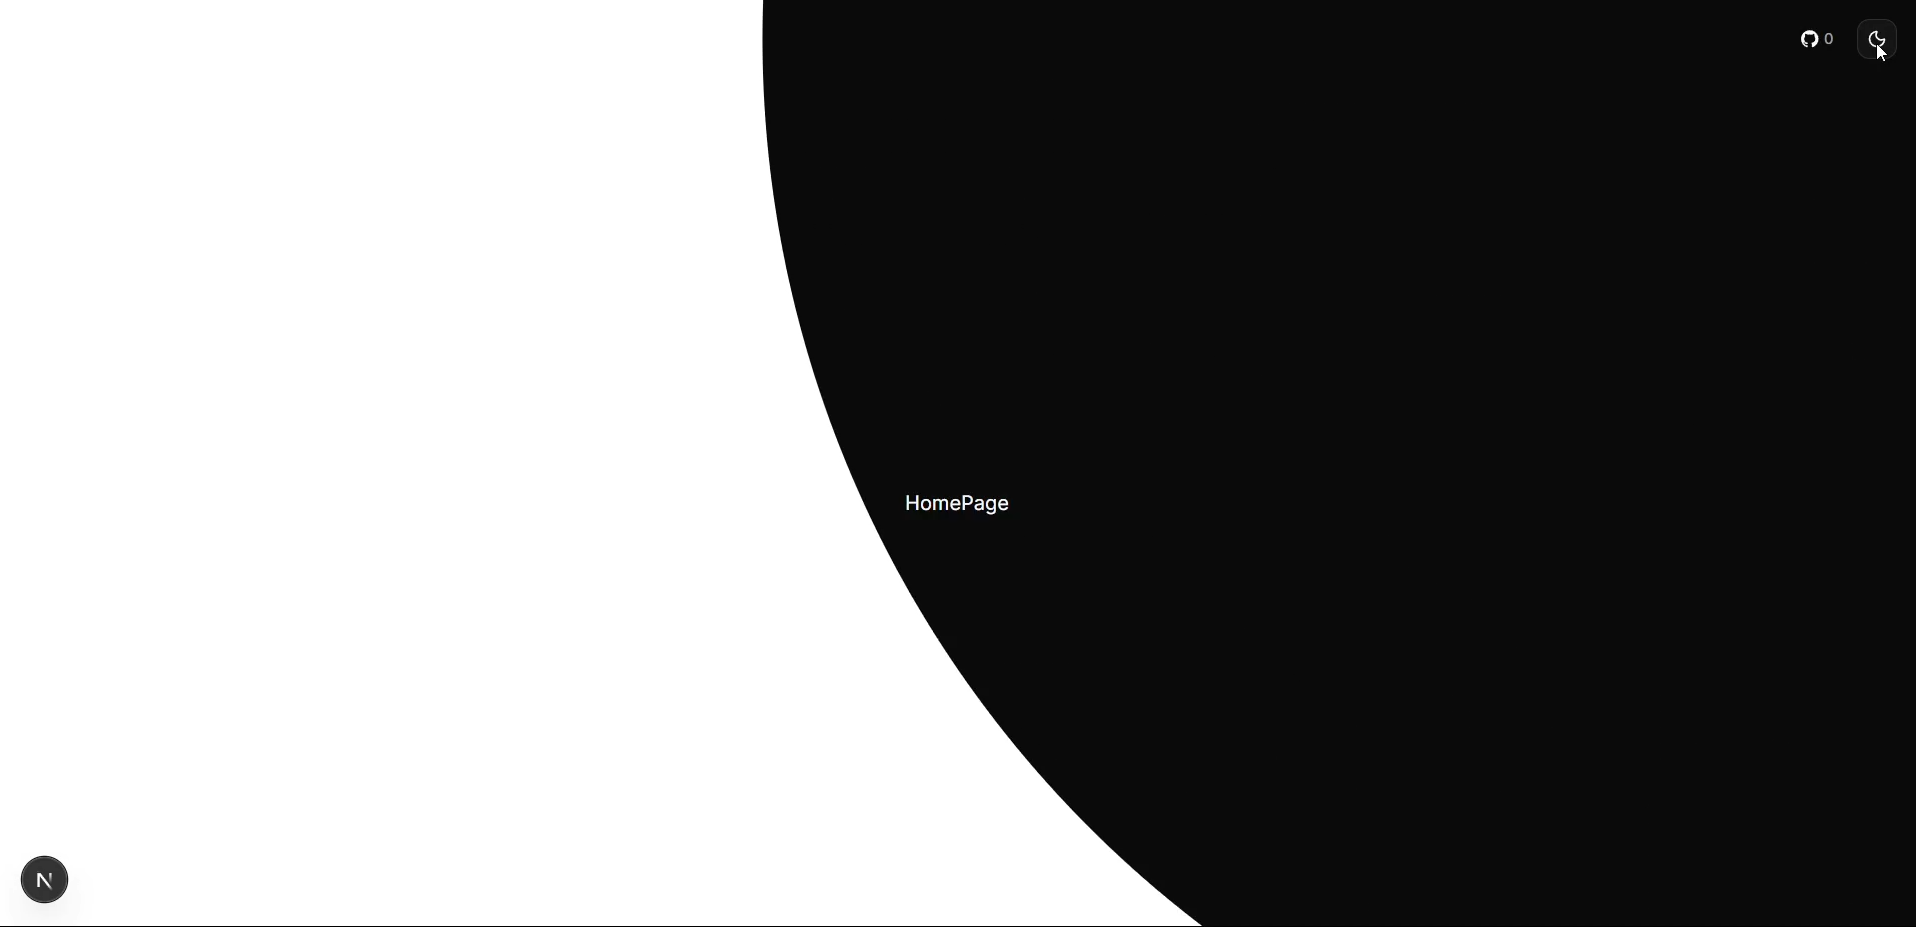
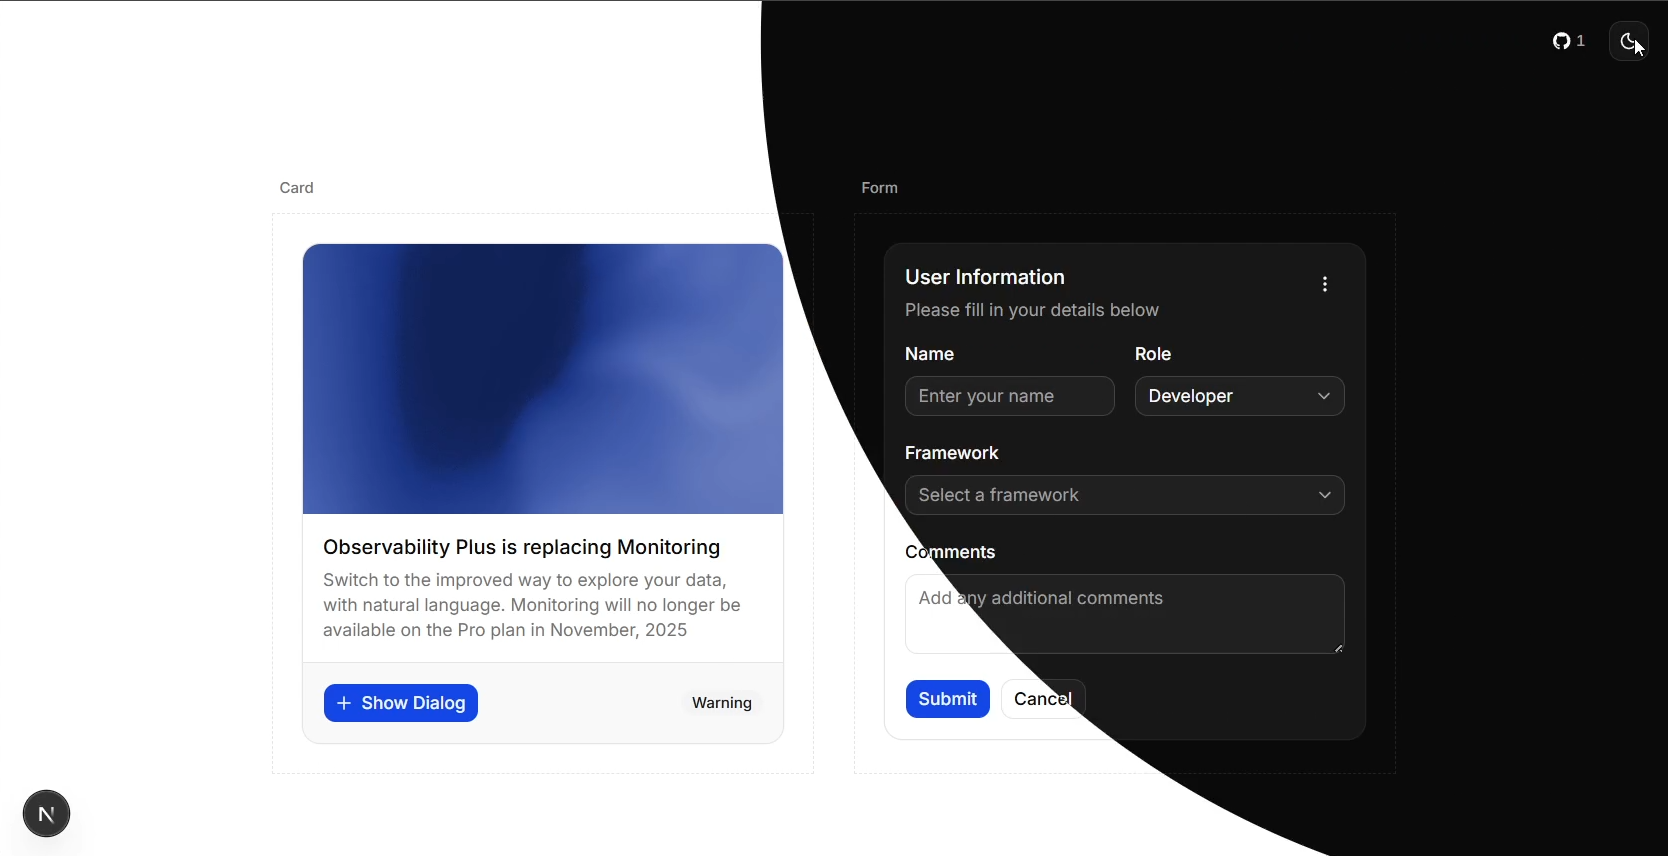
Update HomePage component to include ComponentExample and adjust styles in ExampleWrapper

diff --git a/src/components/example.tsx b/src/components/example.tsx
@@ -6,8 +6,8 @@ function ExampleWrapper({ className, ...props }: React.ComponentProps<"div">) {
       <div
         data-slot="example-wrapper"
         className={cn(
-          "mx-auto grid min-h-screen w-full max-w-5xl min-w-0 content-center items-start gap-8 p-4 pt-2 sm:gap-12 sm:p-6 md:grid-cols-2 md:gap-8 lg:p-12 2xl:max-w-6xl",
-          className
+          "mx-auto grid w-full max-w-5xl min-w-0 content-center items-start gap-8 p-4 pt-2 sm:gap-12 sm:p-6 md:grid-cols-2 md:gap-8 lg:p-12 2xl:max-w-6xl",
+          className,
         )}
         {...props}
       />

diff --git a/src/app/(app)/page.tsx b/src/app/(app)/page.tsx
@@ -1,7 +1,10 @@
+import { ComponentExample } from '@/components/component-example'
 import React from 'react'
 
 export default function HomePage() {
   return (
-    <div>HomePage</div>
+    <div>
+      <ComponentExample />
+    </div>
   )
 }
